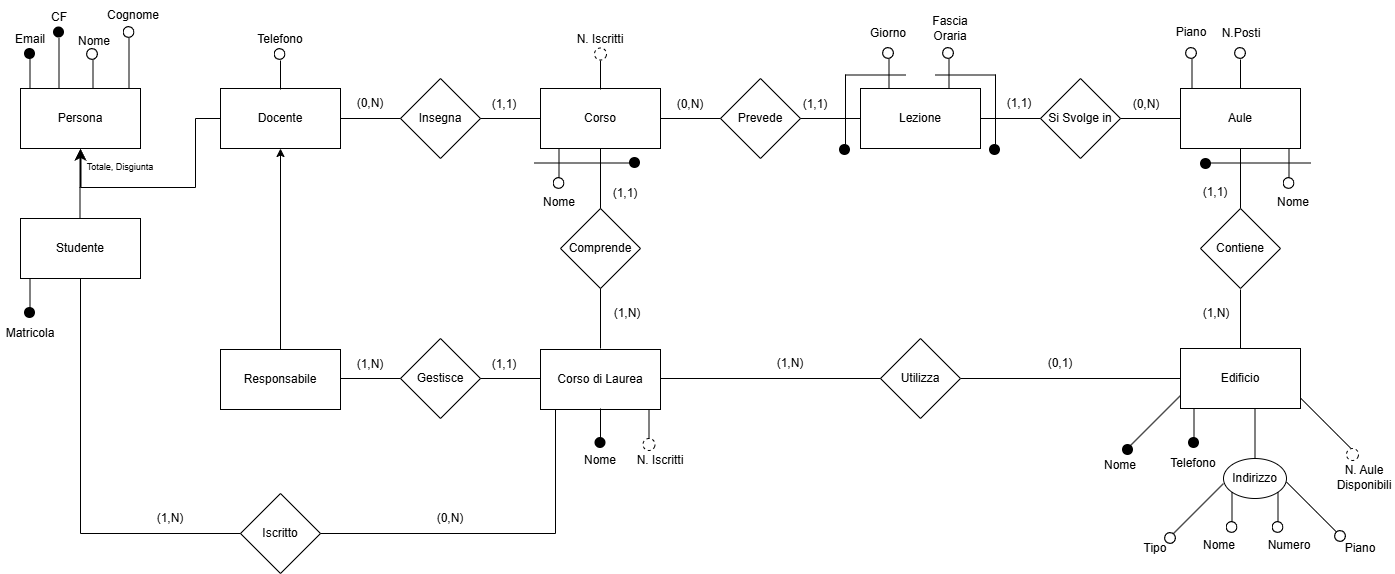
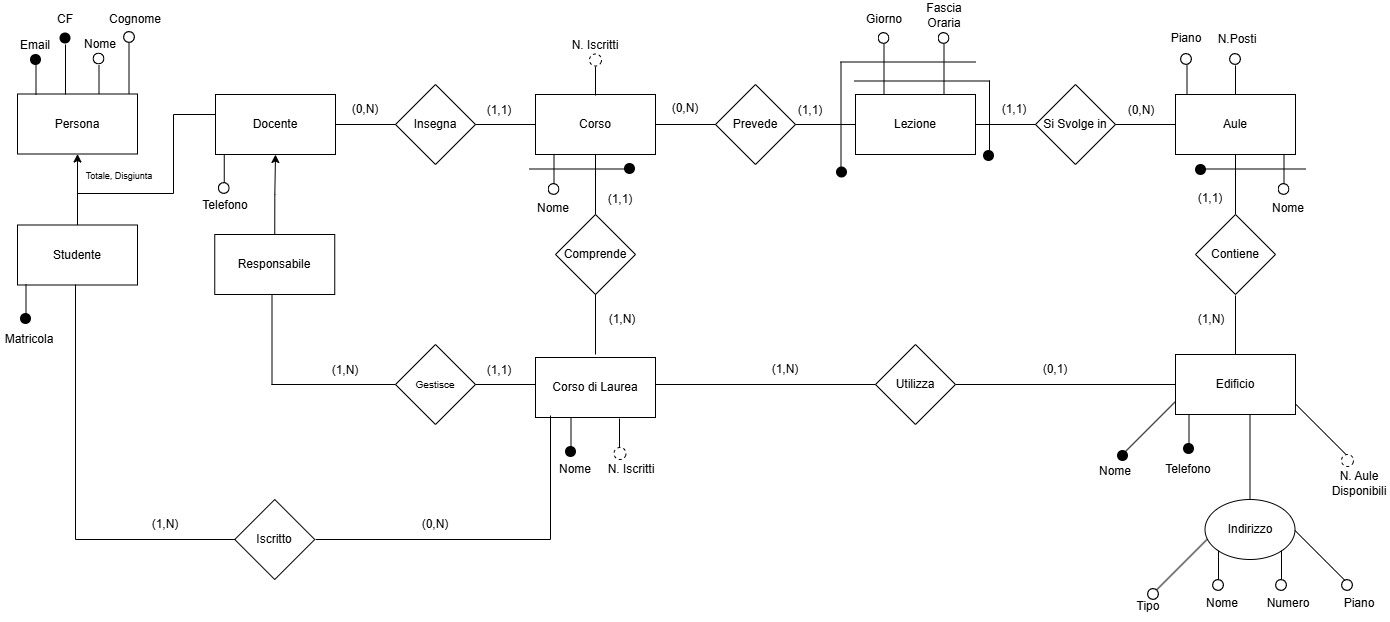
grammar and pics

diff --git a/latex/main.tex b/latex/main.tex
@@ -49,7 +49,7 @@
 \author{Max Fachin:\\ 
 Panizza Jacopo: \\ 
 Weijie Liu: [email redacted]\\ 
-Giovanni}
+Giovanni Urban: [email redacted]}
 
 \maketitle
 
@@ -63,10 +63,10 @@ Giovanni}
 
 Si vuole progettare una base di dati per la gestione del calendario settimanale delle lezioni dei vari corsi di laurea offerti da una data facoltà universitaria in uno specifico periodo didattico (ad esempio, le lezioni dei corsi di laurea offerti dalla Facoltà di Scienze M.F.N. dell'Università di Udine relativamente al primo periodo didattico).
 
-La base di dati è progettata per rappresentare il calendario settimanale delle lezioni relative a uno specifico periodo didattico, però si da la facoltà di memorizzare docenti, edifici e corsi per i quali verranno usati anche in futuro e non necessariamente in tale periodo didattico.
+La base di dati è progettata per rappresentare il calendario settimanale delle lezioni relative a uno specifico periodo didattico, però si dà la facoltà di memorizzare docenti, edifici e corsi che verranno usati anche in futuro e non necessariamente in tale periodo didattico.
 
 
-\paragraph{Frasi relative ai studenti}
+\paragraph{Frasi relative agli studenti}
 
 Di ogni studente rappresentiamo il suo codice fiscale, matricola (numero intero), e-mail, nome e cognome.
 
@@ -74,22 +74,22 @@ Ogni studente non può essere contemporaneamente un docente.
 
 Ogni studente deve essere iscritto ad almeno un corso di laurea e può essere iscritto a più corsi di laurea, per esempio nel caso stia svolgendo una doppia laurea.
 
-Lo studente è registrato dipendentemente ai corsi di laurea a cui è iscritto. Ciò significa che è presente un vincolo di dipendenza esistenziale tra lo studente e i corsi di laurea per i quali è iscritto: le informazioni memorizzate dello studente (matricola, nome, ...) devono continuare a persistere solamente se esiste ancora un corso di laurea per il quale è iscritto.
+Lo studente è registrato dipendentemente dai corsi di laurea a cui è iscritto. Ciò significa che è presente un vincolo di dipendenza esistenziale tra lo studente e i corsi di laurea per i quali è iscritto: le informazioni memorizzate dello studente (matricola, nome, ...) devono continuare a persistere solamente se esiste ancora un corso di laurea per il quale è iscritto.
 
 
 \paragraph{Frasi relative ai corsi di laurea}
 
 Di ogni corso di laurea (ad esempio, la Laurea Triennale in Informatica) vogliamo memorizzare il nome, il numero totale di studenti iscritti, gli studenti iscritti e il docente che ricopre il ruolo di responsabile (ogni corso di laurea deve avere un responsabile).
 
-Le iscrizioni degli studenti e le informazioni degli studenti dipendono esistenzialmente dal corso di laurea: se un corso di laurea viene eliminato, devono essere eliminate automaticamente tutte le iscrizioni ad esso associate e anche le informazioni dello studente nel caso non risulta più iscritto ad alcun corso di laurea.
+Le iscrizioni degli studenti e le informazioni degli studenti dipendono esistenzialmente dal corso di laurea: se un corso di laurea viene eliminato, devono essere eliminate automaticamente tutte le iscrizioni ad esso associate e anche le informazioni dello studente nel caso non risulti più iscritto ad alcun corso di laurea.
 
 Ogni corso di laurea deve possedere almeno un edificio di riferimento al fine di assicurare che ci siano delle aule per svolgere le sue lezioni da calendario.
 
-Per quanto riguarda i corsi di laurea, essi vengono memorizzati esclusivamente se siano attualmente disponibili, per esempio non vengono salvati corsi di laurea per i quali venivano offerti in passato ma che attualmente non vengono più offerti.
+Per quanto riguarda i corsi di laurea, essi vengono memorizzati esclusivamente se sono attualmente disponibili, per esempio non vengono salvati corsi di laurea che venivano offerti in passato ma che attualmente non vengono più offerti.
 
 Un corso di laurea necessariamente deve avere almeno un corso.
 
-Un corso di laurea non necessariamente deve avere iscritti: si da la possibilità di poter memorizzare corsi di laurea e associate informazioni anche nel caso in cui non ci siano ancora studenti iscritti.
+Un corso di laurea non necessariamente deve avere iscritti: si dà la possibilità di poter memorizzare corsi di laurea e associate informazioni anche nel caso in cui non ci siano ancora studenti iscritti.
 
 
 
@@ -102,16 +102,16 @@ Poiché il sistema gestisce esclusivamente corsi di laurea validi, ogni corso de
 Corsi con lo stesso nome possono appartenere solo a corsi di laurea diversi (ad esempio, vi è un corso di Basi di Dati sia presso il Corso di Laurea Triennale in Informatica sia presso il Corso di Laurea Triennale in TWM; non vi possono essere due corsi distinti di Basi di Dati presso il Corso di Laurea Triennale in Informatica o presso il Corso di Laurea Triennale in TWM).
 
 Considerando che corsi con lo stesso nome possono essere sostenuti in corsi di laurea diversi ma un singolo edificio può sostenere solamente corsi di uno specifico corso di laurea allora 
-corsi di laurea non possono avere corsi in comune (per esempio data una lezione di Basi di Dati, essa può essere svolta o dai studenti di TWM oppure dai studenti di Informatica ma non da entrambi oppure il corso di laurea di Informatica e TWM non possono avere lo stesso corso di Basi di Dati ma possono avere due corsi di Basi di Dati diversi ma con lo stesso nome).
+corsi di laurea non possono avere corsi in comune (per esempio data una lezione di Basi di Dati, essa può essere svolta o dagli studenti di TWM oppure dagli studenti di Informatica ma non da entrambi oppure il corso di laurea di Informatica e TWM non possono avere lo stesso corso di Basi di Dati ma possono avere due corsi di Basi di Dati diversi ma con lo stesso nome).
 
 I corsi possono essere registrati per essere svolti in futuri periodi didattici; pertanto, non è obbligatorio che a ogni corso siano già associate delle lezioni.
 
 
 \paragraph{Frasi relative ai docenti}
 
-Di ogni docente, rappresentiamo l'e-mail, il numero di telefono del ufficio nel quale lavora (nel formato di un numero di telefono italiano), il codice fiscale, nome e cognome. Ogni ufficio presenta almeno un telefono e ci possono essere più docenti in un singolo ufficio.
+Di ogni docente, rappresentiamo l'e-mail, il numero di telefono dell'ufficio nel quale lavora (nel formato di un numero di telefono italiano), il codice fiscale, nome e cognome. Ogni ufficio presenta almeno un telefono e ci possono essere più docenti in un singolo ufficio.
 
-Ogni docente, può o meno insegnare, e può insegnare a più corsi anche di corsi di laurea differenti.
+Ogni docente può o meno insegnare, e può insegnare a più corsi anche di corsi di laurea differenti.
 
 Un docente non può essere uno studente.
 
@@ -122,7 +122,7 @@ Di ogni corso di laurea (ad esempio, la Laurea Triennale in Informatica) vogliam
 
 Essendo il responsabile un ruolo, di esso si vuole memorizzare tutte le informazioni di un docente (la sua e-mail, numero di telefono del suo ufficio, codice fiscale, nome e cognome).
 
-Inoltre il responsabile può assumere tale ruolo per uno o più corsi di laurea, purchè insegni almeno un corso appartenente a tale corso di laurea. In particolare, se un docente è responsabile di più corsi di laurea, deve insegnare almeno un corso per ciascuno di essi, per esempio se un docente è responsabile del corso di laurea di informatica e matematica allora deve insegnare in almeno un corso che appartenga sia alla laurea di matematica sia a quella di informatica.
+Inoltre il responsabile può assumere tale ruolo per uno o più corsi di laurea, purché insegni almeno un corso appartenente a tale corso di laurea. In particolare, se un docente è responsabile di più corsi di laurea, deve insegnare almeno un corso per ciascuno di essi, per esempio se un docente è responsabile del corso di laurea di informatica e matematica allora deve insegnare in almeno un corso che appartenga sia alla laurea di matematica sia a quella di informatica.
 
 
 \paragraph{Frasi relative agli edifici}
@@ -131,7 +131,7 @@ Di ogni edificio vogliamo memorizzare il nome, che lo identifica univocamente, l
 
 Oltre al nome, anche l'indirizzo e recapito telefonico identificano univocamente l'edificio.
 
-Il numero di aule disponibili identifica il numero di aule totali utilizzabili per fare lezione al interno del edificio.
+Il numero di aule disponibili identifica il numero di aule totali utilizzabili per fare lezione all'interno dell'edificio.
 
 Ogni edificio contiene un insieme di aule identificate univocamente dal nome all'interno dello stesso edificio.
 
@@ -215,21 +215,21 @@ Lezione & Attività/evento didattico programmato (corso, aula, giorno, fascia or
 % Sia inoltre $\Delta = 2 \text{ ore}$ la durata di una lezione.
 % Le possibili fasce orarie sono quindi definite come
 % $$
-% \text{fascie orarie} =\{[t,\, t+\Delta] \mid t \in T\}.
+% \text{fasce orarie} =\{[t,\, t+\Delta] \mid t \in T\}.
 % $$
 % Dove l'intervallo \{8:00, 10:00\} rappresenta la prima fascia oraria, l'intervallo \{10:00, 12:00\} rappresenta la seconda fascia oraria e così via.
 
 % Il numero di aule disponibili si intende il numero totale di aule che presenta un edificio utilizzabili per svolgere le lezioni.
 
-% Del docente, e quindi anche responsabile, si vuole memorizzare la sua email, la quale lo identifica univocamente, il numero di telefono del ufficio nel quale lavora, il codice fiscale, nome e cognome. Si assume che ogni stanza abbia un singolo telefono e ci possono essere più docenti in una singolo ufficio.
+% Del docente, e quindi anche responsabile, si vuole memorizzare la sua email, la quale lo identifica univocamente, il numero di telefono dell'ufficio nel quale lavora, il codice fiscale, nome e cognome. Si assume che ogni stanza abbia un singolo telefono e ci possono essere più docenti in un singolo ufficio.
 
 % Non ci possono essere più edifici con lo stesso numero di telefono o stesso indirizzo.
 
 % Ogni corso di laurea deve possedere almeno un edificio di riferimento al fine di assicurare che a ogni corso di laurea presenti delle aule per svolgere le sue lezioni da calendario.
 
-% La base di dati è progettata per rappresentare il calendario settimanale delle lezioni relative a uno specifico periodo didattico, però si da la facoltà di memorizzare docenti, edifici, aule e corsi per i quali verranno usati anche in futuro e non necessariamente in tale periodo didattico.
+% La base di dati è progettata per rappresentare il calendario settimanale delle lezioni relative a uno specifico periodo didattico, però si dà la facoltà di memorizzare docenti, edifici, aule e corsi che verranno usati anche in futuro e non necessariamente in tale periodo didattico.
 
-% Per quanto riguarda i corsi di laurea, essi vengono memorizzati esclusivamente se siano attualmente disponibili, per esempio non vengono salvati corsi di laurea per i quali venivano offerti in passato e che attualmente non vengono più offerti.
+% Per quanto riguarda i corsi di laurea, essi vengono memorizzati esclusivamente se sono attualmente disponibili, per esempio non vengono salvati corsi di laurea che venivano offerti in passato e che attualmente non vengono più offerti.
 
 % Ogni edificio è associato a un unico corso di laurea. Un edificio può non essere utilizzato per lo svolgimento di lezioni, ma deve comunque essere assegnato a uno specifico corso di laurea.
 
@@ -246,7 +246,7 @@ Lezione & Attività/evento didattico programmato (corso, aula, giorno, fascia or
     \item Prelievo di tutti i dati di un corso di laurea (incluso il numero di studenti iscritti). Operazione svolta circa 10 volte al giorno, una per ciascun corso di laurea.
     \label{op:get_info_degree}
     
-    \item Trasferimento di uno studente da un corso di laurea ad un altro. Operazione svolta circa 30 volte all'anno.
+    \item Trasferimento di uno studente da un corso di laurea a un altro. Operazione svolta circa 30 volte all'anno.
     \label{op:transfer_student}
     
     \item Individuare i docenti che insegnano in almeno due corsi appartenenti ai corsi di laurea il cui responsabile è uno specifico docente.
@@ -285,7 +285,7 @@ Uno studente viene registrato per memorizzare e gestire le iscrizioni ai corsi d
 
 Dello studente si vuole tenere traccia dei corsi di laurea ai quali si è iscritto, del suo codice fiscale, della matricola (numero intero), dell'e-mail, del suo nome e cognome.
 
-Lo studente è registrato dipendentemente ai corsi di laurea a cui è iscritto. Ciò significa che è presente un vincolo di dipendenza esistenziale tra lo studente e i corsi di laurea per i quali è iscritto: le informazioni memorizzate dello studente (matricola, nome, ...) devono continuare a persistere solamente se esiste ancora un corso di laurea per il quale è iscritto.
+Lo studente è registrato dipendentemente dai corsi di laurea a cui è iscritto. Ciò significa che è presente un vincolo di dipendenza esistenziale tra lo studente e i corsi di laurea per i quali è iscritto: le informazioni memorizzate dello studente (matricola, nome, ...) devono continuare a persistere solamente se esiste ancora un corso di laurea per il quale è iscritto.
 
 \section{Progettazione Concettuale}
 \subsection{Schema E-R}
@@ -304,7 +304,7 @@ Lo studente è registrato dipendentemente ai corsi di laurea a cui è iscritto. 
 \toprule
 \textbf{Entità} & \textbf{Attributo} & \textbf{Tipo} \\
 \midrule
-Persona & email & tipo stringa con lo stesso formato del email \\
+Persona & email & tipo stringa con lo stesso formato dell'email \\
 Persona & CF & tipo stringa rappresentante il codice fiscale \\
 Persona & nome & tipo stringa alfanumerica \\
 Persona & cognome & tipo stringa alfanumerica \\
@@ -337,9 +337,9 @@ Edificio & n\textsuperscript{o} aule disponibili & tipo numerico intero maggiore
 
 % \subsubsection{Assunzioni sul Contenuto del Database}
 
-% La base di dati è progettata per rappresentare il calendario settimanale delle lezioni relative a uno specifico periodo didattico, però si da la facoltà di memorizzare docenti, edifici, aule e corsi per i quali verranno usati anche in futuro e non necessariamente in tale periodo didattico.
+% La base di dati è progettata per rappresentare il calendario settimanale delle lezioni relative a uno specifico periodo didattico, però si dà la facoltà di memorizzare docenti, edifici, aule e corsi che verranno usati anche in futuro e non necessariamente in tale periodo didattico.
 
-% Per quanto riguarda i corsi di laurea, essi vengono memorizzati esclusivamente se siano attualmente disponibili, per esempio non vengono salvati corsi di laurea per i quali venivano offerti in passato ma che attualmente non vengono più offerti.
+% Per quanto riguarda i corsi di laurea, essi vengono memorizzati esclusivamente se sono attualmente disponibili, per esempio non vengono salvati corsi di laurea che venivano offerti in passato ma che attualmente non vengono più offerti.
 
 % Ogni edificio è associato a un unico corso di laurea. Un edificio può non essere utilizzato per lo svolgimento di lezioni, ma deve comunque essere assegnato a uno specifico corso di laurea.
 
@@ -360,7 +360,7 @@ Edificio & n\textsuperscript{o} aule disponibili & tipo numerico intero maggiore
 %     \begin{itemize}
 %         \item una generalizzazione totale e disgiunta è utilizzata per specializzare l'entità \emph{Persona} nelle entità \emph{Docente} e
 %         \emph{Studente};
-%         \item una generalizzazione parziale è utilizzata per rappresentare il ruolo di \emph{Responsabile}, specializzazione dell'entita \emph{Docente}.
+%         \item una generalizzazione parziale è utilizzata per rappresentare il ruolo di \emph{Responsabile}, specializzazione dell'entità \emph{Docente}.
 %     \end{itemize}
 % \end{itemize}
 
@@ -372,7 +372,7 @@ Lo schema E-R è stato realizzato adottando un approccio \emph{mixed}. In partic
 
 \subsection{Vincoli di Integrità}
 
-Lo schema E-R presenta diversi cicli e relazioni che possono essere fonte di probabile inconsistenze; in tale sezione sono stati analizzati per decidere l'eventuale introduzione di vincoli di integrità.
+Lo schema E-R presenta diversi cicli e relazioni che possono essere fonte di probabili inconsistenze; in tale sezione sono stati analizzati per decidere l'eventuale introduzione di vincoli di integrità.
 
 
 \paragraph{Ciclo \texttt{Corso}-\texttt{Lezione}-\texttt{Aula}-\texttt{Edificio}-\texttt{Corso di Laurea}}
@@ -384,7 +384,7 @@ Questo ciclo può generare inconsistenze, poiché lo schema E-R non impedisce st
 \paragraph{Ciclo \texttt{Docente}-\texttt{Corso}-\texttt{Corso di Laurea} - \texttt{Responsabile}}
 \label{cycle:teacher_course_degree_resp}
 
-Tale ciclo può essere fonte di inconsistenze, poichè lo schema E-R non impedisce che un responsabile non insegni in alcun corso, oppure che tiene insegnamenti esclusivamente per corsi di laurea differenti da quello che coordina.
+Tale ciclo può essere fonte di inconsistenze, poiché lo schema E-R non impedisce che un responsabile non insegni in alcun corso, oppure che tenga insegnamenti esclusivamente per corsi di laurea differenti da quello che coordina.
 
 
 \paragraph{Ciclo \texttt{Persona}-\texttt{Docente}-\texttt{Responsabile}-\texttt{Corso di Laurea}-\texttt{Studente}}
@@ -394,7 +394,7 @@ Questo ciclo non è fonte di inconsistenze poiché la generalizzazione tra \text
 Pertanto, non possono esistere istanze che siano contemporaneamente docenti e studenti, e il ciclo non risulta semanticamente rilevante.
 
 
-\paragraph{Ciclo \texttt{Docente}-\texttt{Corso}-\texttt{Lezione}-\texttt{Aula}-\texttt{Edificio}-\texttt{Corso di Laurea}-\texttt{Responabile}}
+\paragraph{Ciclo \texttt{Docente}-\texttt{Corso}-\texttt{Lezione}-\texttt{Aula}-\texttt{Edificio}-\texttt{Corso di Laurea}-\texttt{Responsabile}}
 \label{cycle:teacher_course_lesson_room_building_degree_resp}
 
 Oltre alle considerazioni svolte nel \nameref{cycle:course_lesson_room_building_degree}, in questo ciclo non è necessario aggiungere ulteriori vincoli di integrità.
@@ -432,8 +432,8 @@ Tali vincoli vengono esplicitati come vincoli di integrità aggiuntivi.
 Dallo schema E-R si possono notare le seguenti ridondanze:
 
 \begin{itemize}
-    \item l'attributo \texttt{n\textsuperscript{o} iscritti} nelle entità \texttt{Corso di Laurea} e \texttt{Corso} che identificano rispettivamente il numero totale di studenti iscritti al corso di laurea e al corso di laurea del associato corso;
-    \item l'attributo \texttt{n\textsuperscript{o} aule disponibili} nel entità \texttt{Edificio} che identifica il numero totale di aule utilizzabili per fare lezione nel edificio.
+    \item l'attributo \texttt{n\textsuperscript{o} iscritti} nelle entità \texttt{Corso di Laurea} e \texttt{Corso} che identificano rispettivamente il numero totale di studenti iscritti al corso di laurea e al corso di laurea dell'associato corso;
+    \item l'attributo \texttt{n\textsuperscript{o} aule disponibili} nell'entità \texttt{Edificio} che identifica il numero totale di aule utilizzabili per fare lezione nell'edificio.
 \end{itemize}
 
 
@@ -448,7 +448,7 @@ Al fine di dettagliare i vincoli di partecipazione e di ciclo di vita non esprim
     La rimozione di un docente è vincolata ai suoi corsi: può essere eseguita esclusivamente se il docente non risulta titolare di alcun corso attivo. In caso contrario, l'operazione è bloccata; per procedere alla cancellazione, è necessario assegnare preventivamente un nuovo docente ai corsi interessati.
 
     \item[Eliminazione di un responsabile:] \hfill \\
-    Un responsabile di un corso di laurea non può essere rimosso direttamente dal sistema. La cancellazione è subordinata alla revoca dal insegnamento di tutti i suoi corsi e all'assegnazione di un altro responsabile al corso di laurea per il quale risulta responsabile.
+    Un responsabile di un corso di laurea non può essere rimosso direttamente dal sistema. La cancellazione è subordinata alla revoca dall'insegnamento di tutti i suoi corsi e all'assegnazione di un altro responsabile al corso di laurea per il quale risulta responsabile.
 
     \item[Eliminazione di uno studente:] \hfill \\
     L'istanza relativa a uno studente può essere rimossa dal sistema senza alcun vincolo restrittivo o effetto collaterale sulle altre entità.
@@ -457,7 +457,7 @@ Al fine di dettagliare i vincoli di partecipazione e di ciclo di vita non esprim
     La rimozione di un corso comporta la cancellazione automatica e in cascata di tutte le singole lezioni ad esso associate e pianificate nel calendario.
 
     \item[Eliminazione di un corso di laurea:] \hfill \\
-    La rimozione di un corso di laurea comporta la cancellazione automatica di tutti i corsi ad esso afferenti e la contestuale rimozione di tutte le relative iscrizioni. Inoltre, per preservare il vincolo di partecipazione totale degli studenti, l'operazione estende la cancellazione in cascata a tutti quei studenti la cui unica iscrizione attiva era associata al corso di laurea eliminato. Al contrario, la sua rimozione non ha alcun effetto sui edifici: gli edifici utilizzati per lo svolgimento delle lezioni non devono essere rimossi.
+    La rimozione di un corso di laurea comporta la cancellazione automatica di tutti i corsi ad esso afferenti e la contestuale rimozione di tutte le relative iscrizioni. Inoltre, per preservare il vincolo di partecipazione totale degli studenti, l'operazione estende la cancellazione in cascata a tutti quegli studenti la cui unica iscrizione attiva era associata al corso di laurea eliminato. Al contrario, la sua rimozione non ha alcun effetto sugli edifici: gli edifici utilizzati per lo svolgimento delle lezioni non devono essere rimossi.
 
     \item[Eliminazione di una lezione:] \hfill \\
     La rimozione di una singola lezione dal calendario può essere effettuata liberamente, senza alcuna limitazione o conseguenza sistemica sul resto della base di dati.
@@ -473,7 +473,7 @@ Al fine di dettagliare i vincoli di partecipazione e di ciclo di vita non esprim
 
 \subsection{Risultati Progettazione Concettuale}
 
-Al termine di tale fase gli artefatti principali sono lo schema ER in Figura~\ref{fig:er_schema} con le informazioni sui tipi dei attributi presenti nella Tabella~\ref{tab:attributes_er_schema}, le operazioni nella sezione \nameref{sec:operations}, tutti i vincoli di integrità nella sezione~\nameref{sec:integrity_constraints} e infine le politiche di rimozione delle entità nella sezione~\nameref{sec:entity_deletion_policies}.
+Al termine di tale fase gli artefatti principali sono lo schema ER in Figura~\ref{fig:er_schema} con le informazioni sui tipi degli attributi presenti nella Tabella~\ref{tab:attributes_er_schema}, le operazioni nella sezione \nameref{sec:operations}, tutti i vincoli di integrità nella sezione~\nameref{sec:integrity_constraints} e infine le politiche di rimozione delle entità nella sezione~\nameref{sec:entity_deletion_policies}.
 
 
 
@@ -494,7 +494,7 @@ Dallo schema E-R in Figura~\ref{fig:er_schema} risultano presenti due generalizz
 
 \begin{figure}[H]
     \centering
-    \includegraphics[width=1\linewidth]{img/er-logico.png}
+    \includegraphics[width=1\linewidth]{img/er-logic.png}
     \caption{Schema ER privo di generalizzazioni}
     \label{fig:generalization_removed}
 \end{figure}
@@ -552,7 +552,7 @@ Vengono riportate le informazioni relative ai volumi dei dati e alle frequenze d
             Comprende & R & 200 \\
             Contiene & R & 240 \\
             Prevede & R & 7.200 \\
-            Si svolte in & R & 7.200 \\
+            Si svolge in & R & 7.200 \\
             \bottomrule
         \end{tabular}
     
@@ -592,7 +592,7 @@ Vengono riportate le informazioni relative ai volumi dei dati e alle frequenze d
 \begin{figure}[H]
     \centering
     \includegraphics[width=0.7\textwidth]{img/redun-er.png}
-    \caption{Sotto-schema E-R per l'analisi delle ridondanze sul attributo \texttt{n\textsuperscript{o} iscritti}}
+    \caption{Sotto-schema E-R per l'analisi delle ridondanze sull'attributo \texttt{n\textsuperscript{o} iscritti}}
     \label{fig:er_redundancy_subschema}
 \end{figure}
 
@@ -916,7 +916,7 @@ Nella Tabella~\ref{tab:attributes_rel_schema} sono riportati i domini associati 
     \toprule
     \textbf{Entità} & \textbf{Attributo} & \textbf{Tipo} \\
     \midrule
-    Persona & email & tipo stringa, con lo stesso formato del email, con lunghezza massima pari a 100 \\
+    Persona & email & tipo stringa, con lo stesso formato dell'email, con lunghezza massima pari a 100 \\
     Persona & CF & tipo stringa rappresentante il codice fiscale \\
     Persona & nome & tipo stringa alfanumerica, con lunghezza massima pari a 50 \\
     Persona & cognome & tipo stringa alfanumerica, con lunghezza massima pari a 50 \\
@@ -929,7 +929,7 @@ Nella Tabella~\ref{tab:attributes_rel_schema} sono riportati i domini associati 
     Lezione & giorno & tipo giorno \\
     Lezione & fascia oraria & tipo stringa tale che fascia oraria $\in$ \{prima, seconda, terza, quarta\} \\
     Aula & piano & tipo numerico intero maggiore uguale a $-1$ \\
-    Aula & n\textsuperscript{o} posti & tipo numerico intero intero maggiore di $0$ \\
+    Aula & n\textsuperscript{o} posti & tipo numerico intero maggiore di $0$ \\
     Aula & nome & tipo stringa, con lunghezza massima pari a 100 \\
     Edificio & nome & tipo stringa, con lunghezza massima pari a 100 \\
     Edificio & indirizzo & stringa conforme al formato di un indirizzo italiano, con lunghezza massima pari a 100 \\
@@ -1093,7 +1093,7 @@ Tale vincolo richiede che le lezioni di un corso si svolgano esclusivamente in a
 L'implementazione del vincolo sarebbe stata realizzata mediante diversi trigger:
 \begin{itemize}
     \item Un trigger di tipo \texttt{BEFORE INSERT} avrebbe verificato, prima dell'inserimento di una nuova lezione, che l'istanza nella relazione \texttt{Edificio}, relativa all'edificio in cui viene svolta la lezione, identifichi, nel vincolo inter-relazionale tra \texttt{Edificio} e \texttt{Corso di Laurea}, il medesimo corso di laurea del corso della lezione inserita.
-    \item Un trigger di tipo \texttt{BEFORE UPDATE} avrebbe verificato che se fosse stato modificato il corso della lezione, il nuovo corso appartenga allo stesso corso di laurea di quello precedente, mentre se la modifica faccia riferimento all'aula, sarebbe stata verificata che l'istanza dell'edificio, relativa all'edificio in cui verrà svolta la lezione, identifichi, nel vincolo inter-relazionale, il medesimo corso di laurea del corso della lezione.
+    \item Un trigger di tipo \texttt{BEFORE UPDATE} avrebbe verificato che se fosse stato modificato il corso della lezione, il nuovo corso appartenga allo stesso corso di laurea di quello precedente, mentre se la modifica faccia riferimento all'aula, sarebbe stato verificato che l'istanza dell'edificio, relativa all'edificio in cui verrà svolta la lezione, identifichi, nel vincolo inter-relazionale, il medesimo corso di laurea del corso della lezione.
     \item Un trigger di tipo \texttt{BEFORE UPDATE} applicato alla relazione \texttt{Edificio} avrebbe evitato eventuali modifiche agli attributi coinvolti nel vincolo inter-referenziale tra l'entità \texttt{Corso di Laurea}, nel caso in cui l'edificio fosse associato a lezioni programmate.
 \end{itemize}
 